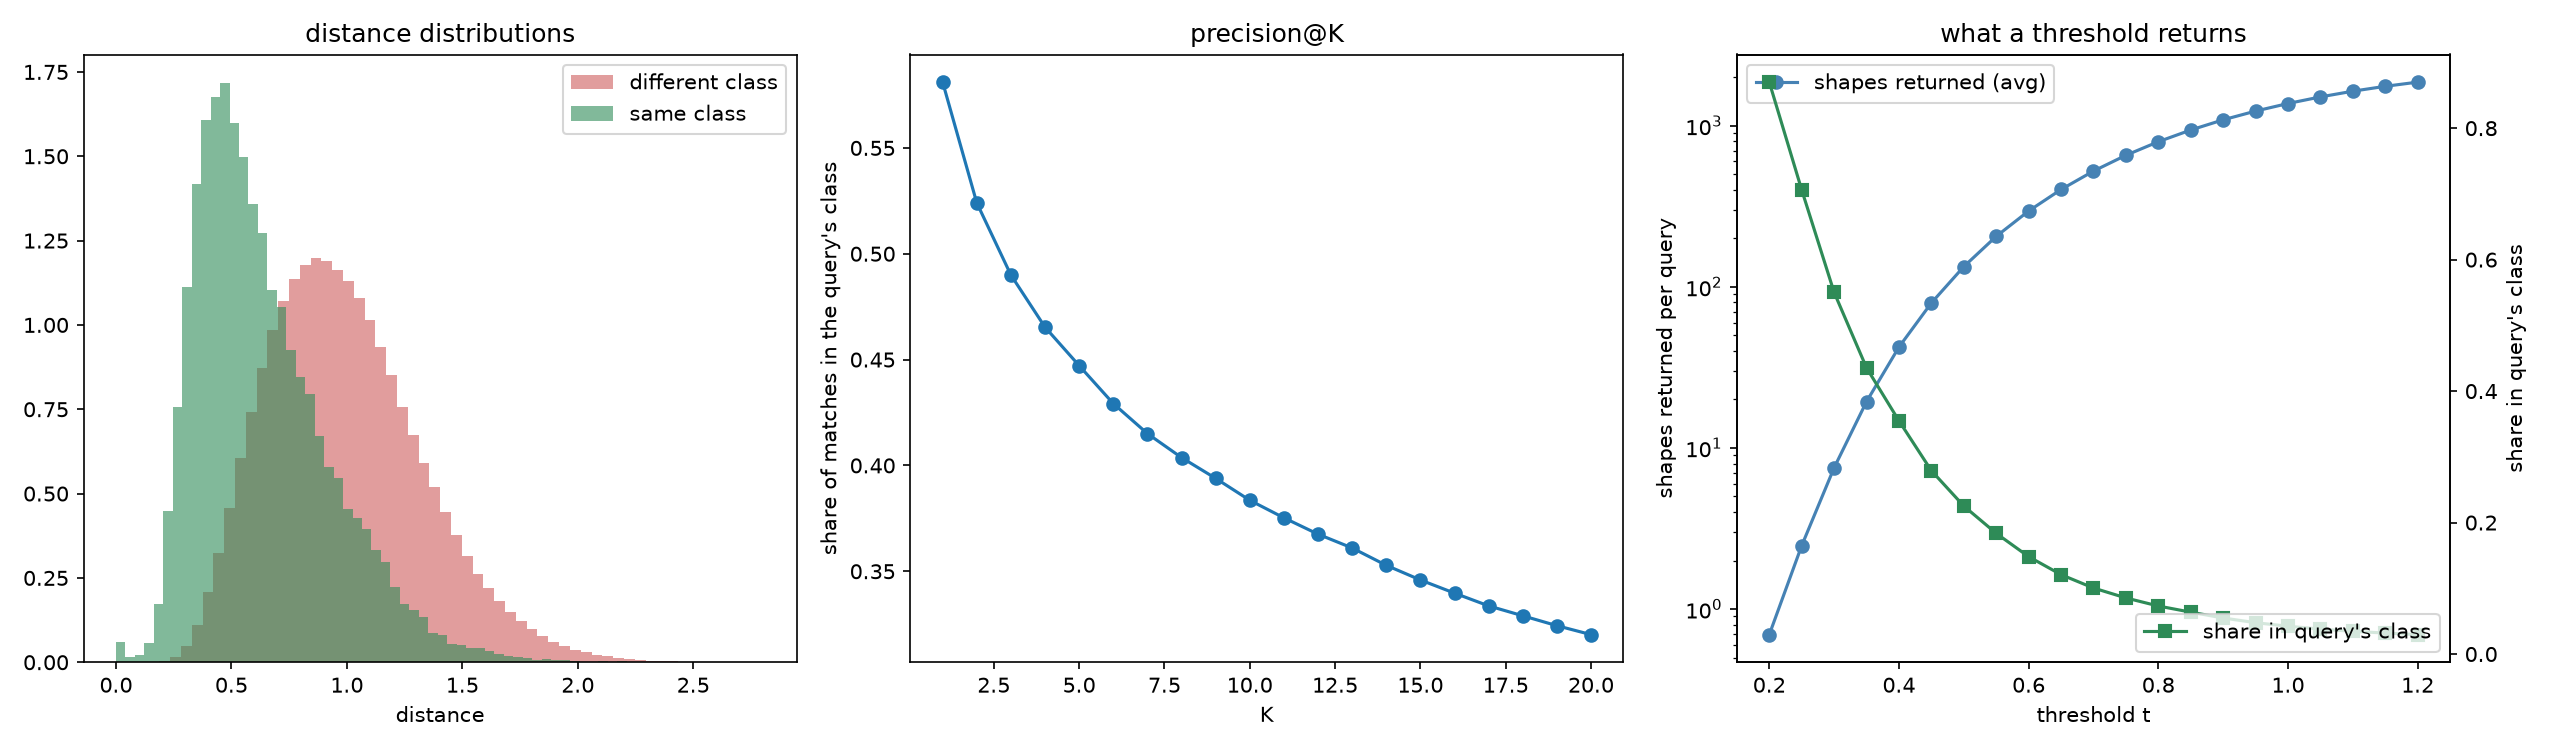
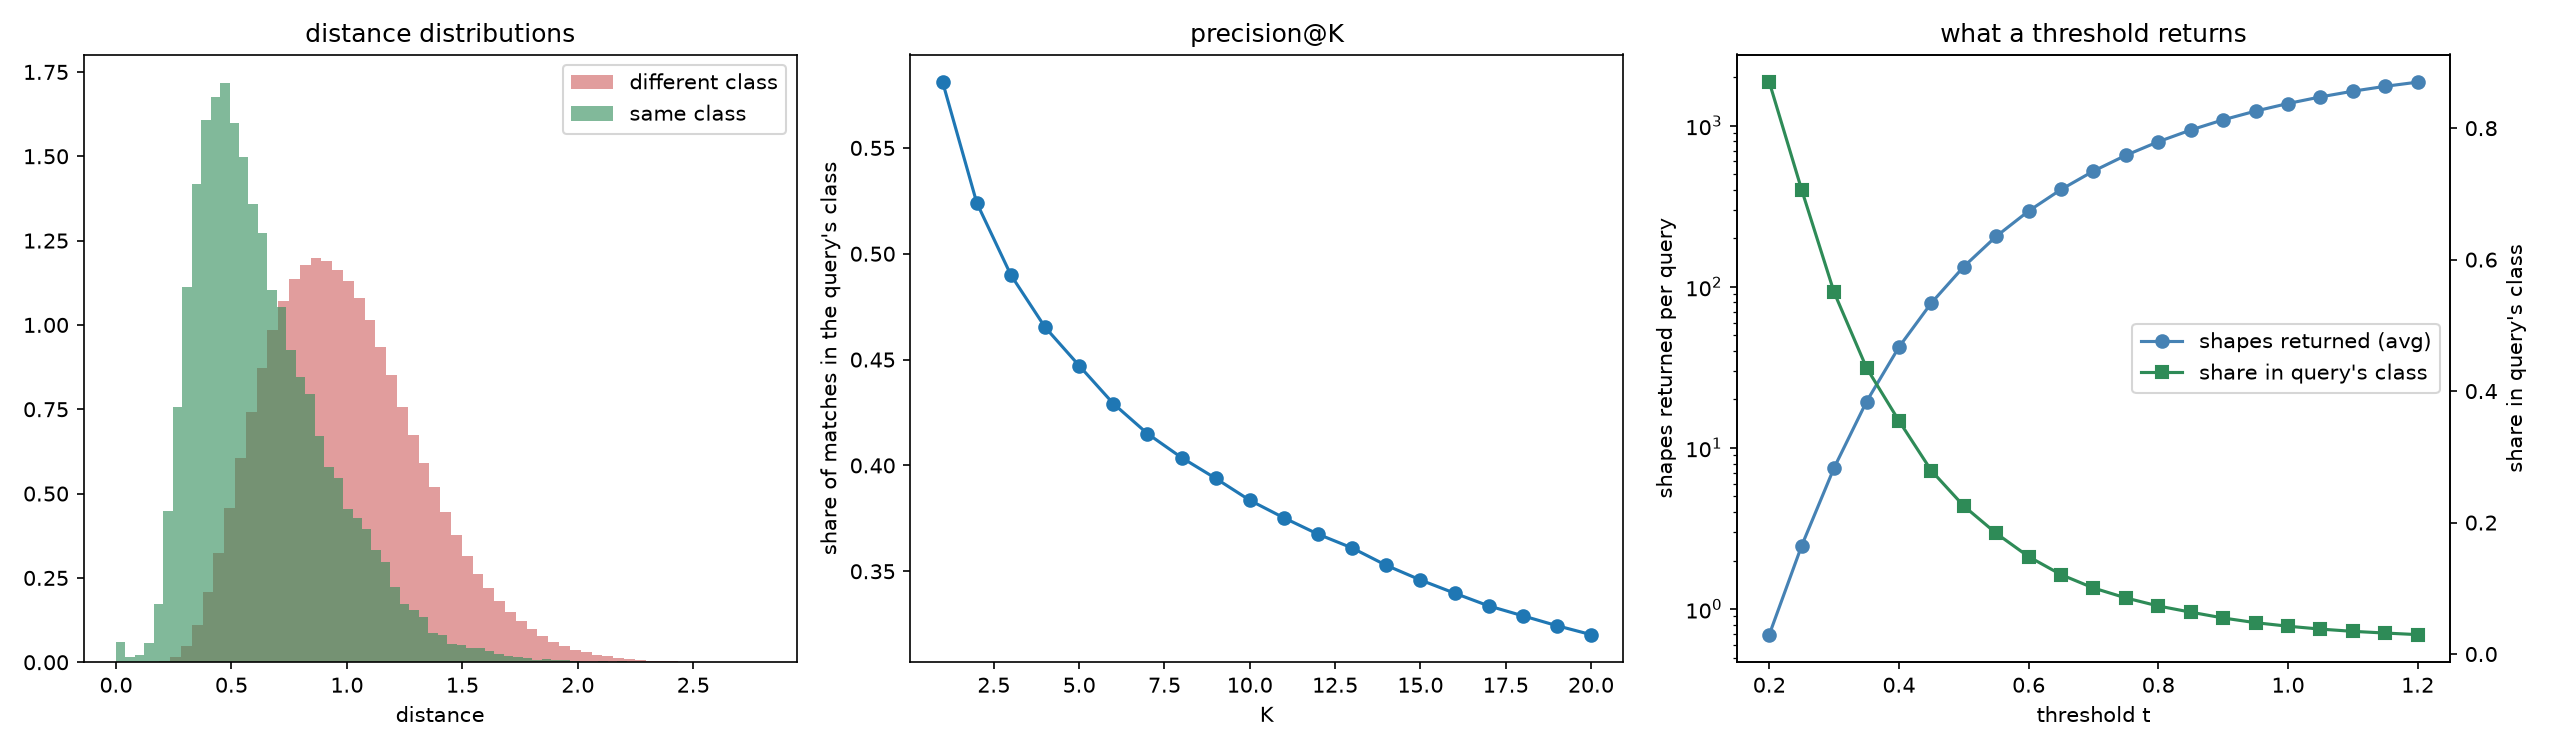
figure fixes

Changed region(s): [[0.8365, 0.4293, 0.9604, 0.5213], [0.8365, 0.7973, 0.9604, 0.8587], [0.6816, 0.092, 0.8055, 0.1533]]

diff --git a/bin_choice.py b/bin_choice.py
@@ -58,10 +58,11 @@ def main():
     ax[1].set_ylabel("L1 distance")
     for a in ax:
         a.set_xscale("log")
-        a.set_xlabel(f"number of bins B (dashed: sqrt(N) = {int(np.sqrt(ft.samples))} for N = {ft.samples:,} samples, "
-                     f"{int(np.sqrt(per_vertex_n))} for N = {per_vertex_n:,} vertices)")
-        a.axvline(np.sqrt(ft.samples), color="black", linestyle="--")
-        a.axvline(np.sqrt(per_vertex_n), color="gray", linestyle="--")
+        a.set_xlabel("number of bins B")
+        a.axvline(np.sqrt(ft.samples), color="black", linestyle="--",
+                  label=f"sqrt({ft.samples:,}) = {int(np.sqrt(ft.samples))}")
+        a.axvline(np.sqrt(per_vertex_n), color="gray", linestyle="--",
+                  label=f"sqrt({per_vertex_n:,}) = {int(np.sqrt(per_vertex_n))}")
         a.legend(fontsize=8)
     plt.tight_layout()
     fname = os.path.join(out_dir, "bin_choice.png")

diff --git a/threshold_choice.py b/threshold_choice.py
@@ -59,8 +59,8 @@ def main():
     twin.plot(thresholds, correct, marker="s", color="seagreen", label="share in query's class")
     twin.set_ylabel("share in query's class")
     ax[2].set_title("what a threshold returns")
-    ax[2].legend(loc="upper left")
-    twin.legend(loc="lower right")
+    lines = ax[2].get_lines() + twin.get_lines()
+    ax[2].legend(lines, [line.get_label() for line in lines], loc="center right")
 
     plt.tight_layout()
     fname = os.path.join(out_dir, "threshold_choice.png")

diff --git a/compare_distances.py b/compare_distances.py
@@ -89,7 +89,8 @@ def main():
                part["precision@10"], label=metric)
     ax.set_ylabel("precision@10")
     ax.set_title("normalisation and histogram distance (all blocks)")
-    ax.legend()
+    ax.set_ylim(0, 1.15 * main_rows["precision@10"].max())
+    ax.legend(loc="upper center", ncol=3)
     plt.tight_layout()
     fname = os.path.join(out_dir, "distance_comparison.png")
     plt.savefig(fname, dpi=150)
